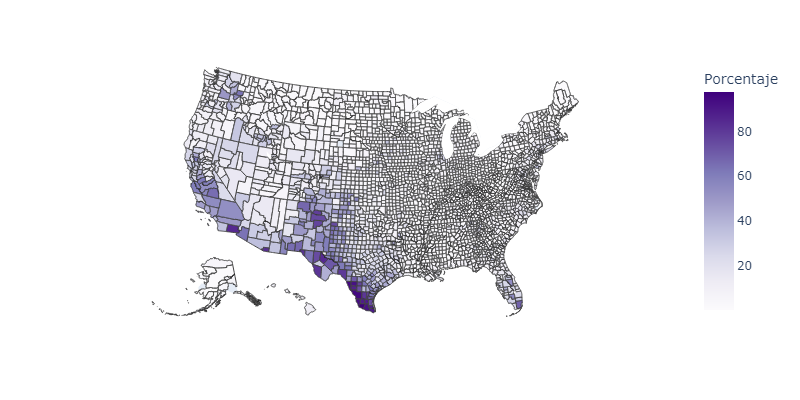
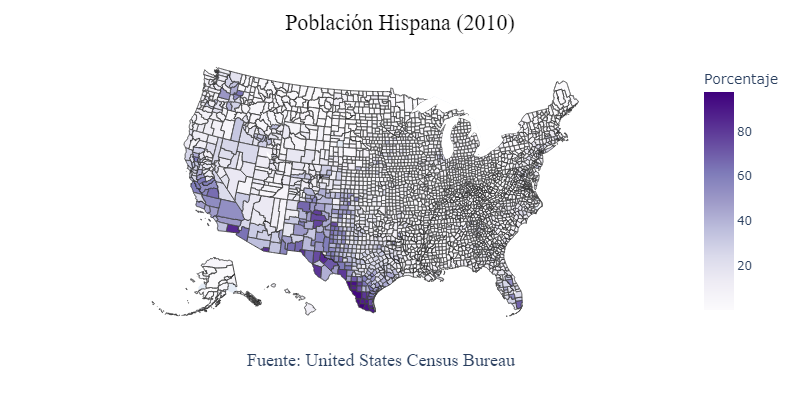
Formato
Modifica Readme

Changed region(s): [[0.3125, 0.87, 0.6562, 0.93], [0.3438, 0.03, 0.6562, 0.09]]

diff --git a/code/Mapas.py b/code/Mapas.py
@@ -1,0 +1,73 @@
+# %%
+import pandas as pd
+import json
+# %%
+json_EU = open('../data/gz_2010_us_050_00_500k.json')
+states = json.load(json_EU)
+json_EU.close()
+# %%
+data_hispana = pd.read_csv('../data/Poblacion Hispana 2020 Ciudad Total.csv')
+data_hispana['Porcentaje'] = (data_hispana['Pob Hispana']/data_hispana['Pob Total'])*100
+data_hispana
+# %%
+import plotly.express as px
+# %%
+fig = px.choropleth(data_frame = data_hispana,          # Datos
+                    geojson = states,           # Recibe los datos geoson
+                    locations = 'ID',       # Columna del CSV que contiene el dato enlace con el geojson
+                    color = 'Porcentaje',             # La columna que se desea usar para el mapa
+                    color_continuous_scale = 'purples',  # Familia de color
+                    featureidkey = 'properties.GEO_ID',      # Dato que conecta el la columna del CSV
+                    basemap_visible = True,             # Elimina un marco alrededor del mapa
+                    scope = 'usa',
+                    hover_name = 'Ciudad',
+                    width = 800,
+                    height = 400
+                    )
+# %%
+fig.update_layout(title_text = 'Población Hispana (2010)',   # Titulo
+                  title_font_family = 'Times New Roman',                     # Tipo de letra
+                  title_font_size = 22,                                      # Tamaño de letra
+                  title_font_color = 'black',                                # Color de letra
+                  title_x = 0.5,                                             # Posición del titulo
+                  annotations = [dict(y = -0.2,
+                                      xref = 'paper',
+                                      yref = 'paper',
+                                      text = 'Fuente: United States Census Bureau',
+                                      font_family = 'Times New Roman',
+                                      font_size = 18,
+                                      showarrow = False)])
+fig.write_image("../media/Poblacion Hispana.png")
+fig.show()
+# %%
+data_mexicana = pd.read_csv('../data/Poblacion Mexicana.csv')
+data_mexicana['Porcentaje'] = (data_mexicana['Poblacion Mexicana']/data_mexicana['Poblacion Total'])*100
+data_mexicana.head()
+# %%
+fig = px.choropleth(data_frame = data_mexicana,          # Datos
+                    geojson = states,           # Recibe los datos geoson
+                    locations = 'ID',       # Columna del CSV que contiene el dato enlace con el geojson
+                    color = 'Porcentaje',             # La columna que se desea usar para el mapa
+                    color_continuous_scale = 'purples',  # Familia de color
+                    featureidkey = 'properties.GEO_ID',      # Dato que conecta el la columna del CSV
+                    basemap_visible = True,             # Elimina un marco alrededor del mapa
+                    scope = 'usa',
+                    hover_name = 'Entidad',
+                    width = 800,
+                    height = 400
+                    )
+# %%
+fig.update_layout(title_text = 'Población Mexicana Estimada (2010)',   # Titulo
+                  title_font_family = 'Times New Roman',                     # Tipo de letra
+                  title_font_size = 22,                                      # Tamaño de letra
+                  title_font_color = 'black',                                # Color de letra
+                  title_x = 0.5,                                             # Posición del titulo
+                  annotations = [dict(y = -0.2,
+                                      xref = 'paper',
+                                      yref = 'paper',
+                                      text = 'Fuente: United States Census Bureau',
+                                      font_family = 'Times New Roman',
+                                      font_size = 18,
+                                      showarrow = False)])
+fig.write_image("../media/Poblacion Mexicana.png")         
+fig.show()

diff --git a/README.md b/README.md
@@ -1,35 +1,26 @@
 # Población mexicano-estadounidense
 
-<br>
-<p style="text-align:justify">
-        Este proyecto tiene como finalidad el abrir un debate referente al libro <i>"The Next 100 Years"</i> de George Friedman y los posibles eventos políticos, económicos y sociales que podría enfrentar México en el futuro. El último capítulo está enfocado a las turbulencias sociales que podrían surgir a finales del siglo XXI en la frontera México-Estados Unidos, en específico a problemas culturales relacionados con los ciudadanos estadounidenses con ascendencia mexicana y su mayoría demográfica en los estados fronterizos. <br>
-        En ese sentido, se argumenta que la población mexicana desplazará paulatinamente a la población blanca en esos territorios y, considerando su cercanía con la cultura mexicana, ocasionarán roces sociales que llegarían a enfrentamientos violentos y una posible escalada de desencuentros políticos y militares entre los gobiernos de Estados Unidos y México.
-</p>
+Este proyecto tiene como finalidad el abrir un debate referente al libro <i>"The Next 100 Years"</i> de George Friedman y los posibles eventos políticos, económicos y sociales que podría enfrentar México en el futuro. El último capítulo está enfocado a las turbulencias sociales que podrían surgir a finales del siglo XXI en la frontera México-Estados Unidos, en específico a problemas culturales relacionados con los ciudadanos estadounidenses con ascendencia mexicana y su mayoría demográfica en los estados fronterizos.
 
-<p style="text-align:justify">
-        De acuerdo con el libro, las relaciones comerciales entre ambos países ocasionará un eventual crecimiento económico para México, lo cual, va acorde a la opinión de muchos especialistas siendo el bloque económico de América del Norte es el más importante en el mundo. En el 2016, el gobierno mexicano realizó una <a href="https://www.gob.mx/cms/uploads/attachment/file/110480/Prosperidad_econ_mica__comercio_y_competitividad_.pdf">publicación</a> donde se destaca el poder del bloque con el 12% del comercio mundial, el 28% del PIB mundial y el 26% de los flujos globales de inversión extranjera directa. En la misma línea, Canadá hace un <a href="https://connect2canada.com/2019/08/20-facts-about-the-north-american-economy/">recuento</a> del peso económico que han tenido los tres países desde la entrada en vigor del TLCAN.<br>
-        En efecto México tendrá un mayor peso en el campo económico y político, pero esto sucederá por las estrechas relaciones comerciales con EU y el incremento en poder económico del bloque. Las posibles discordias políticas y sociales dependerán en gran medida del rumbo ideológico que tomen los ciudadanos y políticos al paso de los años, sin embargo, primero se deben superar las dificultades del presente como el caso de la inseguridad, la desigualdad y el nulo estado de derecho.
-</p>
+En ese sentido, se argumenta que la población mexicana desplazará paulatinamente a la población blanca en esos territorios y, considerando su cercanía con la cultura mexicana, ocasionarán roces sociales que llegarían a enfrentamientos violentos y una posible escalada de desencuentros políticos y militares entre los gobiernos de Estados Unidos y México.
 
-<p style="text-align:justify">
-        Ahora, el siguiente mapa es expuesto en el libro y su propósito es ilustrar el porcentaje que tiene la población hispana en los territorios que pertenecieron a México antes del Tratado Guadalupe-Hidalgo. Al ser un mapa con información del año 2000, se realizará un gráfico con datos del año 2010 con el fin de mostrar el movimiento étnico y el peso de los hispanos en los condados cercanos a la frontera México-Estados Unidos.
-</p>
+De acuerdo con el libro, las relaciones comerciales entre ambos países ocasionará un eventual crecimiento económico para México, lo cual, va acorde a la opinión de muchos especialistas siendo el bloque económico de América del Norte es el más importante en el mundo. En el 2016, el gobierno mexicano realizó una <a href="https://www.gob.mx/cms/uploads/attachment/file/110480/Prosperidad_econ_mica__comercio_y_competitividad_.pdf">publicación</a> donde se destaca el poder del bloque con el 12% del comercio mundial, el 28% del PIB mundial y el 26% de los flujos globales de inversión extranjera directa. En la misma línea, Canadá hace un <a href="https://connect2canada.com/2019/08/20-facts-about-the-north-american-economy/">recuento</a> del peso económico que han tenido los tres países desde la entrada en vigor del TLCAN.
 
-![Población Hispana (2010)](/media/Poblacion%20Hispana.png "Fuente: United States Census Bureau")
+En efecto México tendrá un mayor peso en el campo económico y político, pero esto sucederá por las estrechas relaciones comerciales con EU y el incremento en poder económico del bloque. Las posibles discordias políticas y sociales dependerán en gran medida del rumbo ideológico que tomen los ciudadanos y políticos al paso de los años, sin embargo, primero se deben superar las dificultades del presente como el caso de la inseguridad, la desigualdad y el nulo estado de derecho.
 
-<p style="text-align:justify">
-        La idea de ambos mapas es mostrar cómo la migración hispana tiene un peso fuerte en los territorios que, historicamente, significan mucho para los mexicanos. <br>
-        Sin embargo, considerar que toda la población hispana tendría un sentimiento patriota y anti estadounidense no tendría sentido, los hispanos son el conjunto de personas que tienen raices españolas, portuguesas, mexicanas, chilenas, argentinas, etc. Es decir, el sentimiento "patriota" que causará problemas sociales en los estados fronterizos aplica únicamente con la población mexicana. Por esta razón, se procede a realizar un nuevo gráfico con la población mexicana.
-</p>
+Ahora, la siguiente gráfica es una reproducción actualizada del mapa expuesto en el libro, su propósito es ilustrar el porcentaje y peso que tiene la población hispana en Estados Unidos, en especial, los territorios fronterizos que pertenecieron a México antes del Tratado Guadalupe-Hidalgo.
 
-<p style="text-align:justify">
-        Con el nuevo gráfico, que presenta ligeras diferencias con el antes presentado, se puede decir que, en efecto, la población con ascendencia mexicana es mayoritaría en los condados y estados fronterizos. Sin embargo, los problemas sociales usualmente son acompañados por discrepancias culturales, la discriminación y el patriotismo entre ambas poblaciones.
-</p>
+![PH2010](/media/Poblacion%20Hispana.png "Población Hispana (2010)")
 
-<p style="text-align:justify">
-        En ese senido, el autor menciona que la frontera entre México y EU se encuentra en una situación similar a la región francesa de Alsacia y Lorena, dicha región poseía población de raices alemanas y francesas, siendo una región de grandes tensiones políticas, sociales y territoriales en los siglos XIX y XX. El territorio fue un punto clave en el contexto de nacionalismos posteriores a la Guerra Franco-Prusiana y la Primera Guerra Mundial. Actualmente la región ya no es un punto de tensiones políticas y pasó a ser propiedad francesa sin nuevas pretenciones alemanas, siendo la Segunda Guerra Mundial la última anexión alemana por el fuerte nacionalismo impulsado por el régimen de Hitler.
-</p>
+La idea del mapa es mostrar cómo la migración hispana tiene un peso fuerte en los territorios que, historicamente, significan mucho para los mexicanos. <br>
+Sin embargo, considerar que toda la población hispana tendría un sentimiento patriota y anti estadounidense no tiene sentido, los hispanos son el conjunto de personas que tienen raices españolas, portuguesas, mexicanas, chilenas, argentinas, etc. Es decir, el sentimiento "patriota" que causará problemas sociales en los estados fronterizos aplica únicamente con la población mexicana. Por esta razón, se procede a realizar un nuevo gráfico con la población mexicana.
 
-<p style="text-align:justify">
-        A pesar de que muchos mexicanos consideran a la cesión de esas tierras como una injusticia, que, en efecto lo fue y es mencionado por los expresidentes <a href='https://www.jstor.org/stable/40191441'> Abraham Lincoln </a> y <a href='https://teachingamericanhistory.org/document/recollections-of-the-war/'>Ulysses Grant</a>, sin embargo, nunca han existido intenciones reales para recuperar esos territorios y sólo pasa como un amargo recuerdo historico. Este evento puede causar el patriotismo que argumenta Friedman, pero ya han pasado más de 150 años y no han ocurrido eventos violentos que puedan escalar a un conflicto bélico entre ambos países.
-</p>
+![PME2010](/media/Poblacion%20Mexicana.png "Población Mexicana Estimada (2010)")
+
+Con el nuevo gráfico, que presenta ligeras diferencias con el antes presentado, se puede decir que, en efecto, la población con ascendencia mexicana es mayoritaría en los condados y estados fronterizos. Sin embargo, los problemas sociales usualmente son acompañados por discrepancias culturales, la discriminación y el patriotismo entre ambas poblaciones.
+
+En ese sentido, el autor menciona que la frontera entre México y E.U. se encuentra en una situación similar a la región francesa de Alsacia-Lorena, cuya población posee ascendencia alemana y francesa. En los siglos XIX y XX dicho territorio concentraba grandes tensiones políticas, sociales y culturales que fueron clave en el contexto de nacionalismos posteriores a la Guerra Franco-Prusiana y la Primera Guerra Mundial. Durante la Segunda Guerra Mundial, la región fue anexada por Alemania y después de su derrota, la zona pasó de nuevo a ser territorio francés sin nuevas pretensiones alemanas.
+
+El aprendizaje que debe dejar Alsacia-Lorena en los periodos de nacionalismos, es que la implementación de políticas que fomentan la división y discriminación hacía una minoría solo ocasiona roces culturales que pueden escalar a conflictos entre naciones.
+
+A pesar de que muchos mexicanos consideran a la Guerra México-E.U. y la cesión de territorios como una injusticia, que lo fue y es mencionado por los expresidentes <a href='https://www.jstor.org/stable/40191441'> Abraham Lincoln </a> y <a href='https://teachingamericanhistory.org/document/recollections-of-the-war/'>Ulysses Grant</a>, la realidad es que nunca han existido intenciones reales para recuperar esos territorios y solo pasa como un amargo recuerdo histórico. Ahora, el sentimiento que surge de ese recuerdo histórico podría causar el patriotismo que argumenta Friedman, pero ya han pasado más de 150 años y solo han ocurrido eventos bélicos aislados que responden más al contexto regional e internacional.
